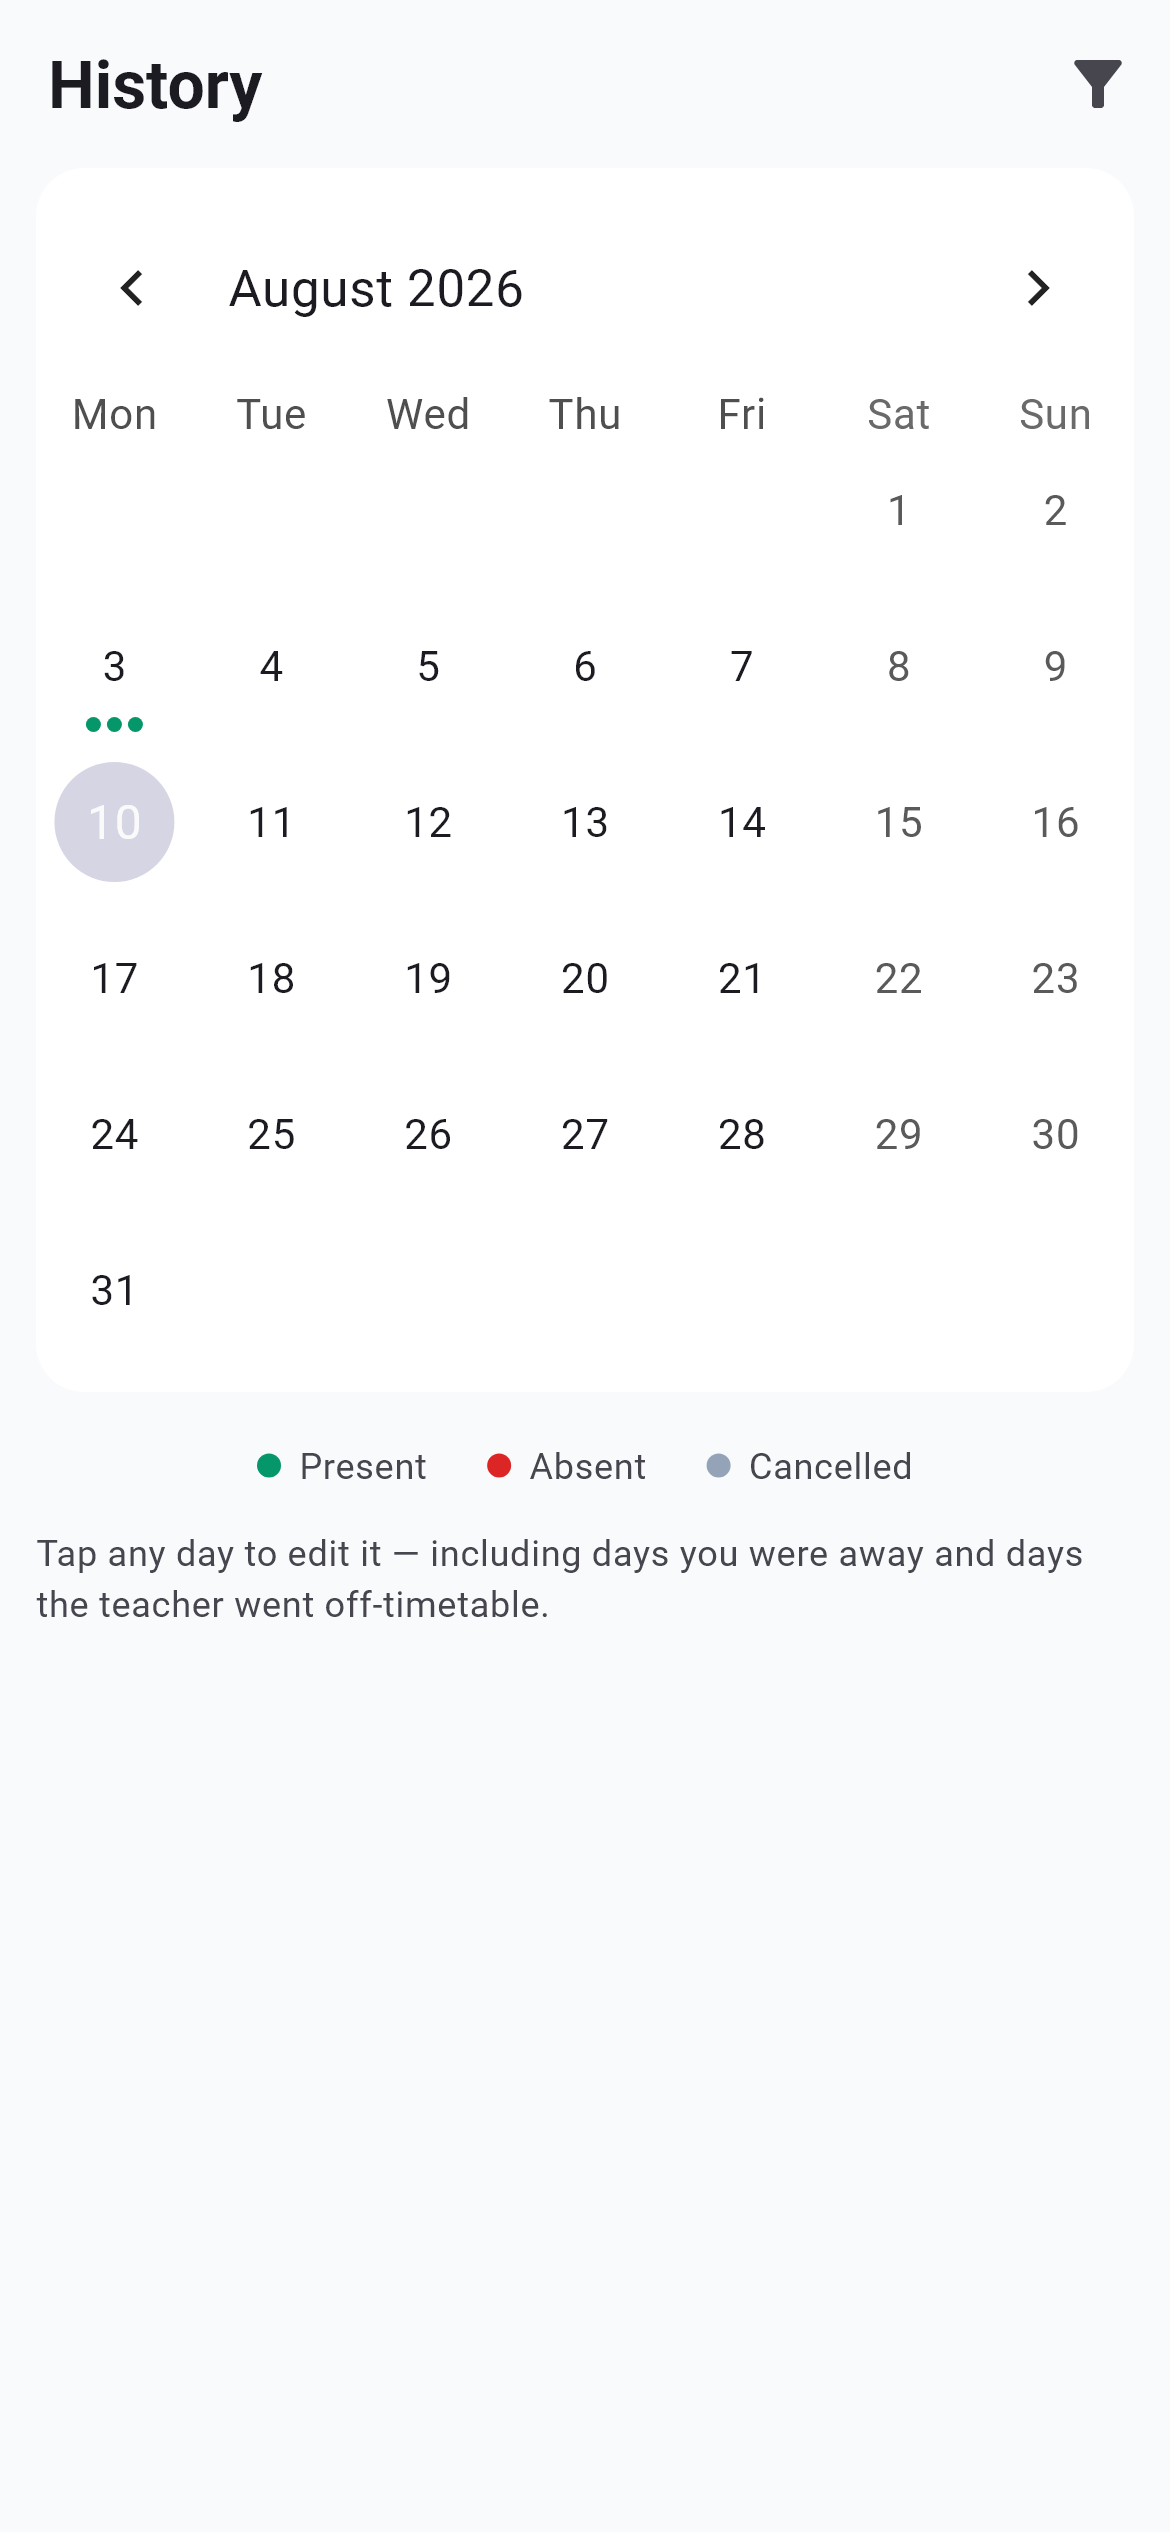
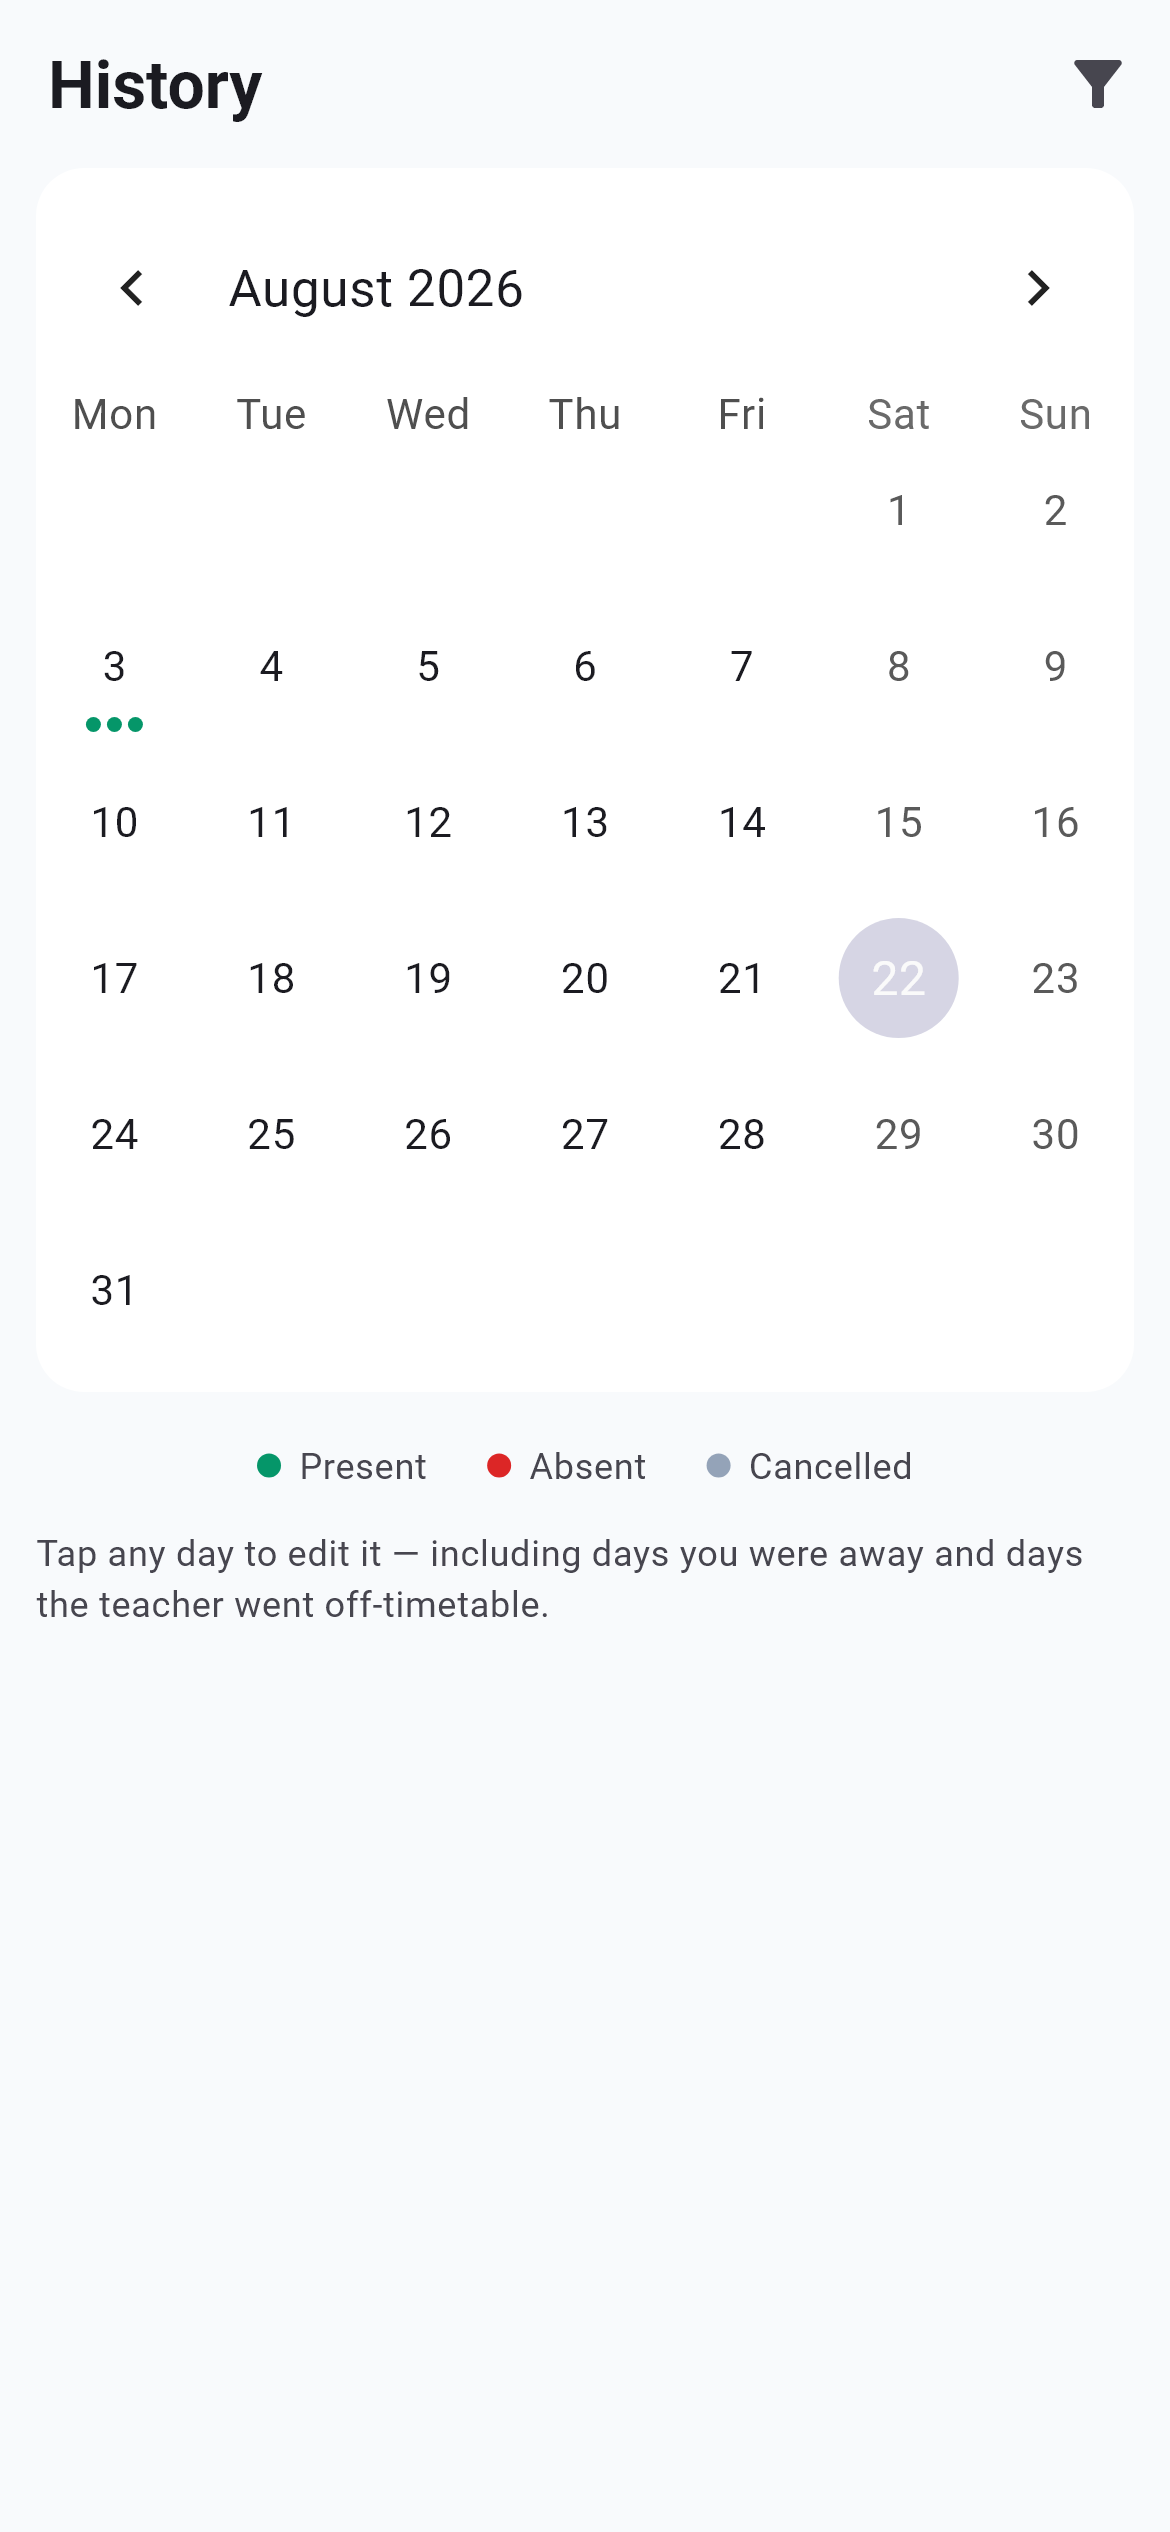
Refresh docs and screenshots after the audit fixes
The README still advertised a per-subject target field that no longer exists,
quoted the old notification wording that claimed an attendance outcome, and
gave a test count three commits out of date. Screenshots regenerated so they
match the shipping UI.

Changed region(s): [[0.0308, 0.2808, 0.1538, 0.3744], [0.7077, 0.3432, 0.8308, 0.4056]]

diff --git a/README.md b/README.md
@@ -104,7 +104,7 @@ So not opening the app for a week is correct by construction: reopening backfill
 ### The model
 
 ```
-Subject   name, colour, optional teacher/room, target %   ← the unit of accounting
+Subject   name, colour, optional teacher/room            ← the unit of accounting
 Slot      subject + weekday + OPTIONAL start/end time     ← one weekly entry
 Record    what actually happened: status, manual?, note
 Term      start, optional end, target %, holidays
@@ -135,7 +135,7 @@ Local only; scheduled by Android's `AlarmManager`, not sent from anywhere.
 
 | When | What |
 |---|---|
-| After your last class | *"Marked you present for 5 classes. Miss any?"* — the safety net that makes assuming-present trustworthy. |
+| After your last class | *"You had 5 classes today. Missed any and not marked it yet?"* — the safety net that makes assuming-present trustworthy. |
 | The instant you drop below target | *"Operating Systems dropped below 75%"* |
 | Sunday evening | Weekly summary |
 
@@ -147,7 +147,7 @@ Attendance correctness never depends on these firing.
 
 ```bash
 flutter pub get
-flutter test --exclude-tags screenshots   # 83 tests
+flutter test --exclude-tags screenshots   # 113 tests
 flutter analyze
 flutter run                               # phone on USB debugging
 
@@ -193,7 +193,7 @@ lib/
   state/       Riverpod providers
   screens/     home · subjects · history · settings · editors
   widgets/     the P/A/C toggle, class rows, standings
-test/          83 tests + the screenshot generator
+test/          113 tests + the screenshot generator
 docs/          screenshots
 ```
 
